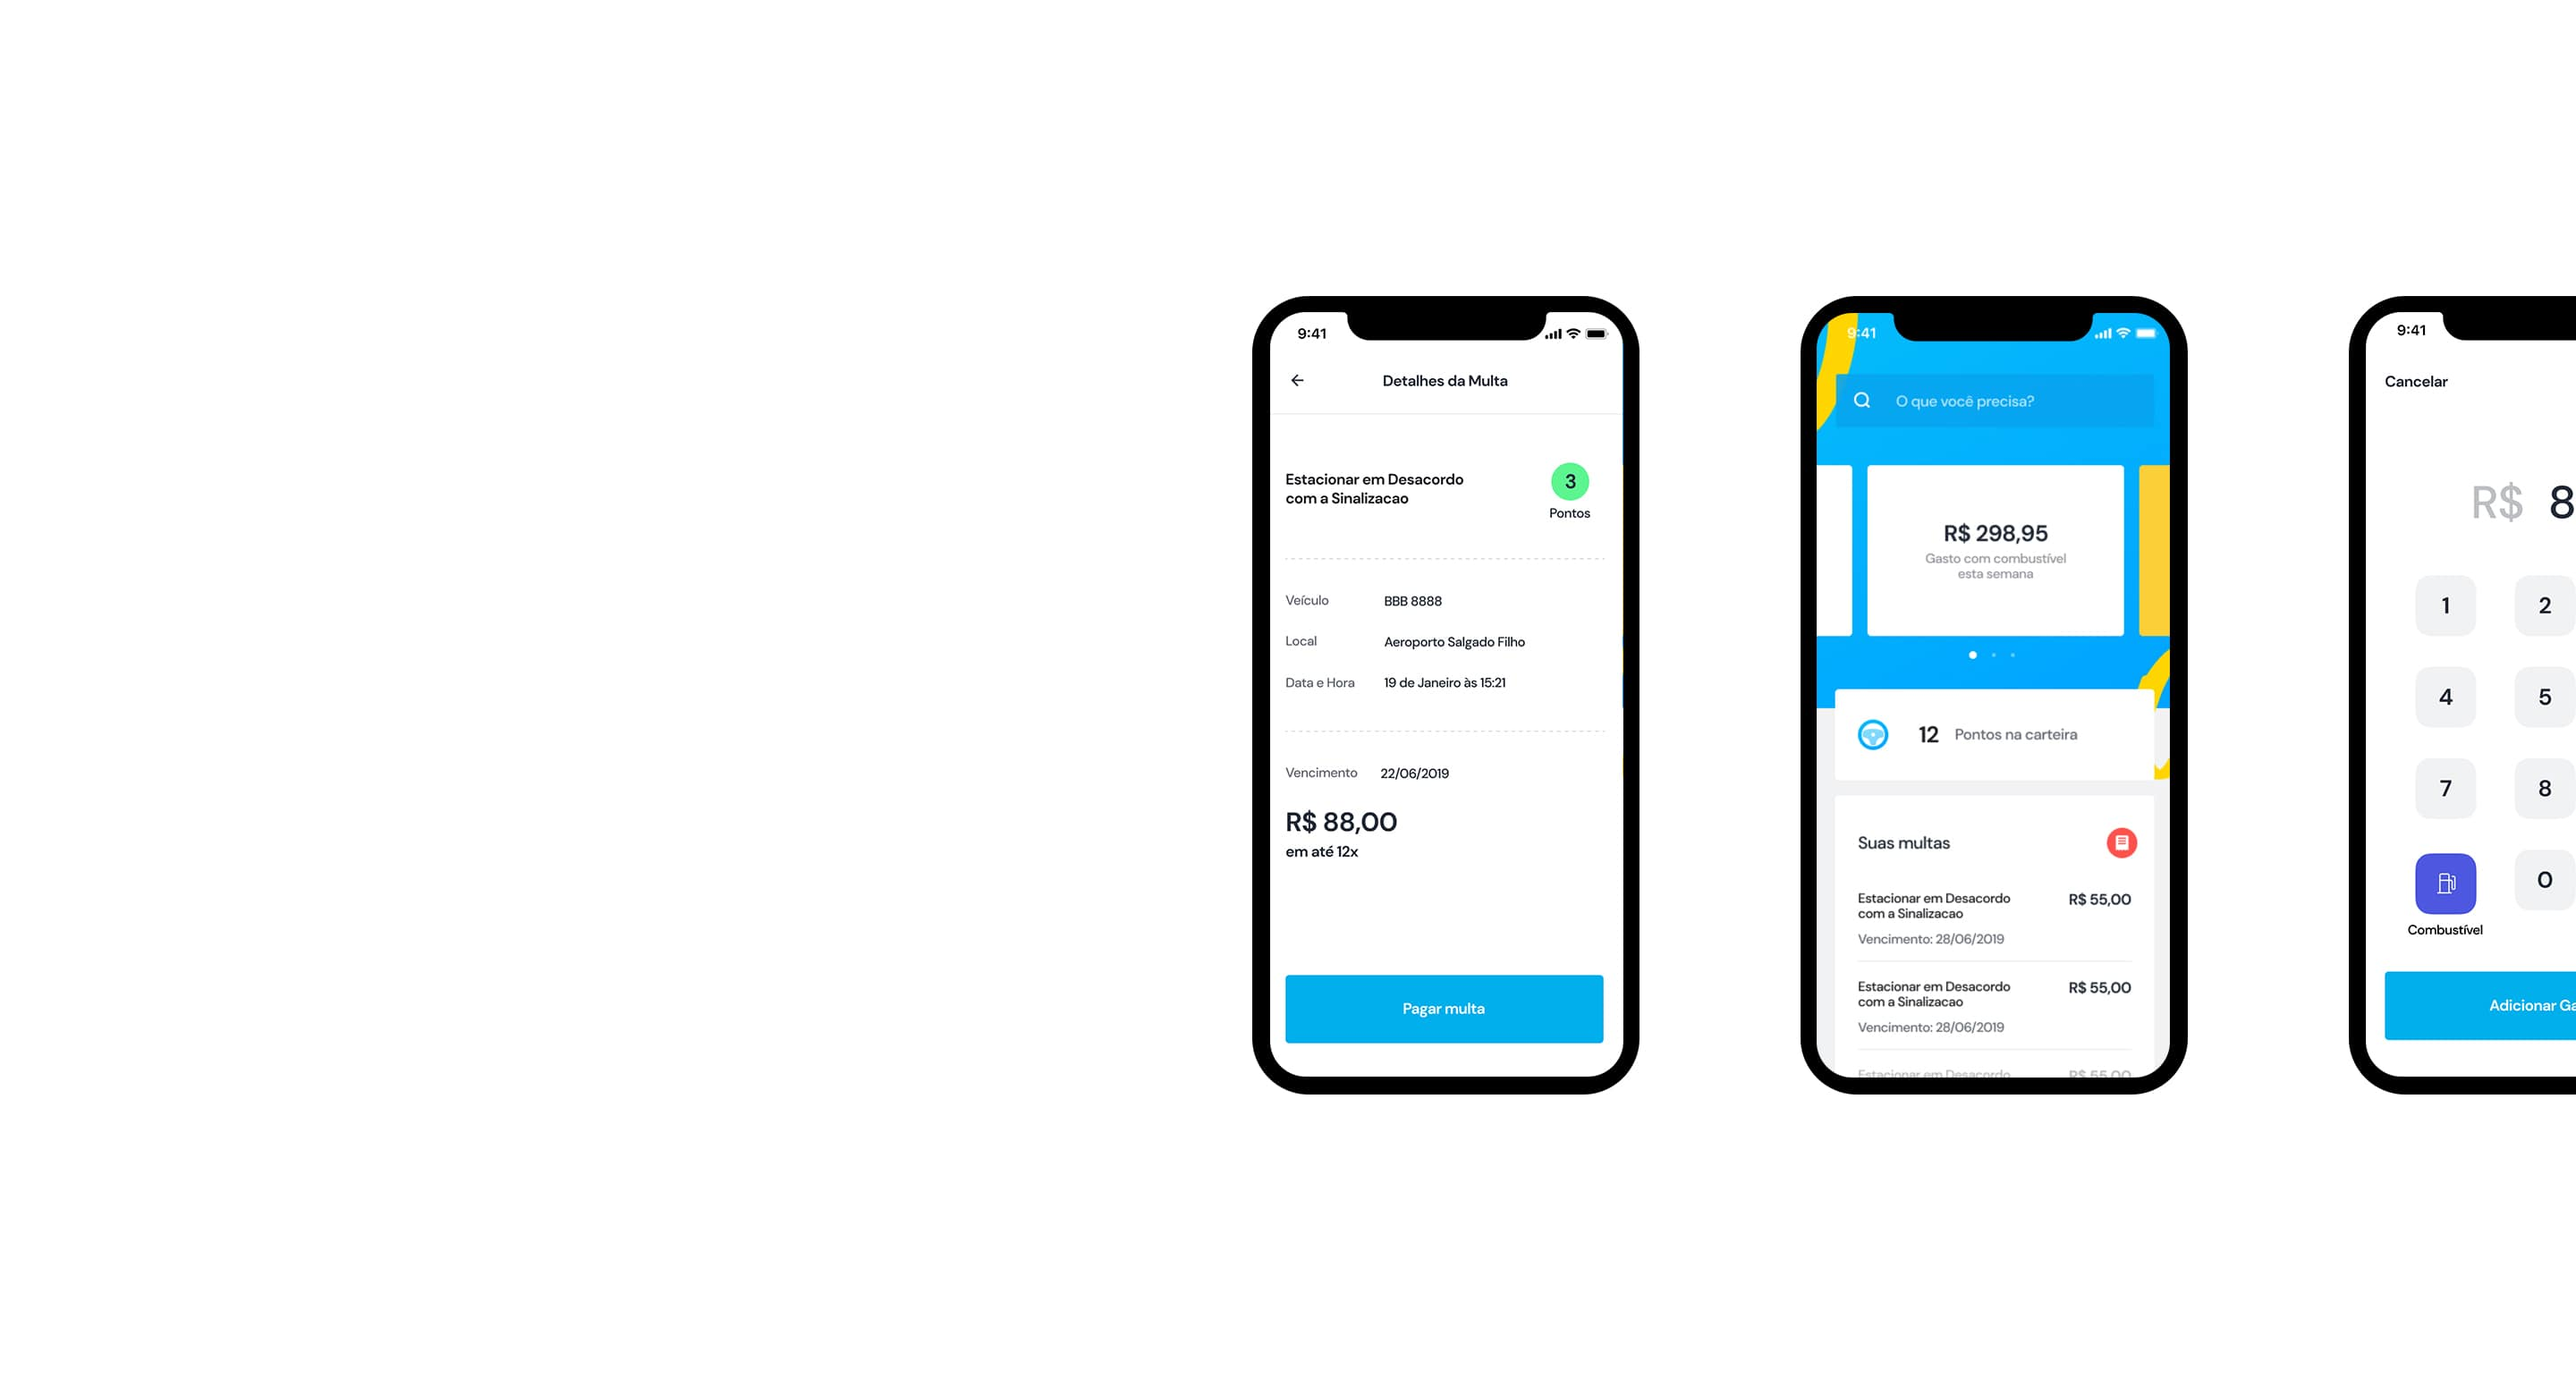
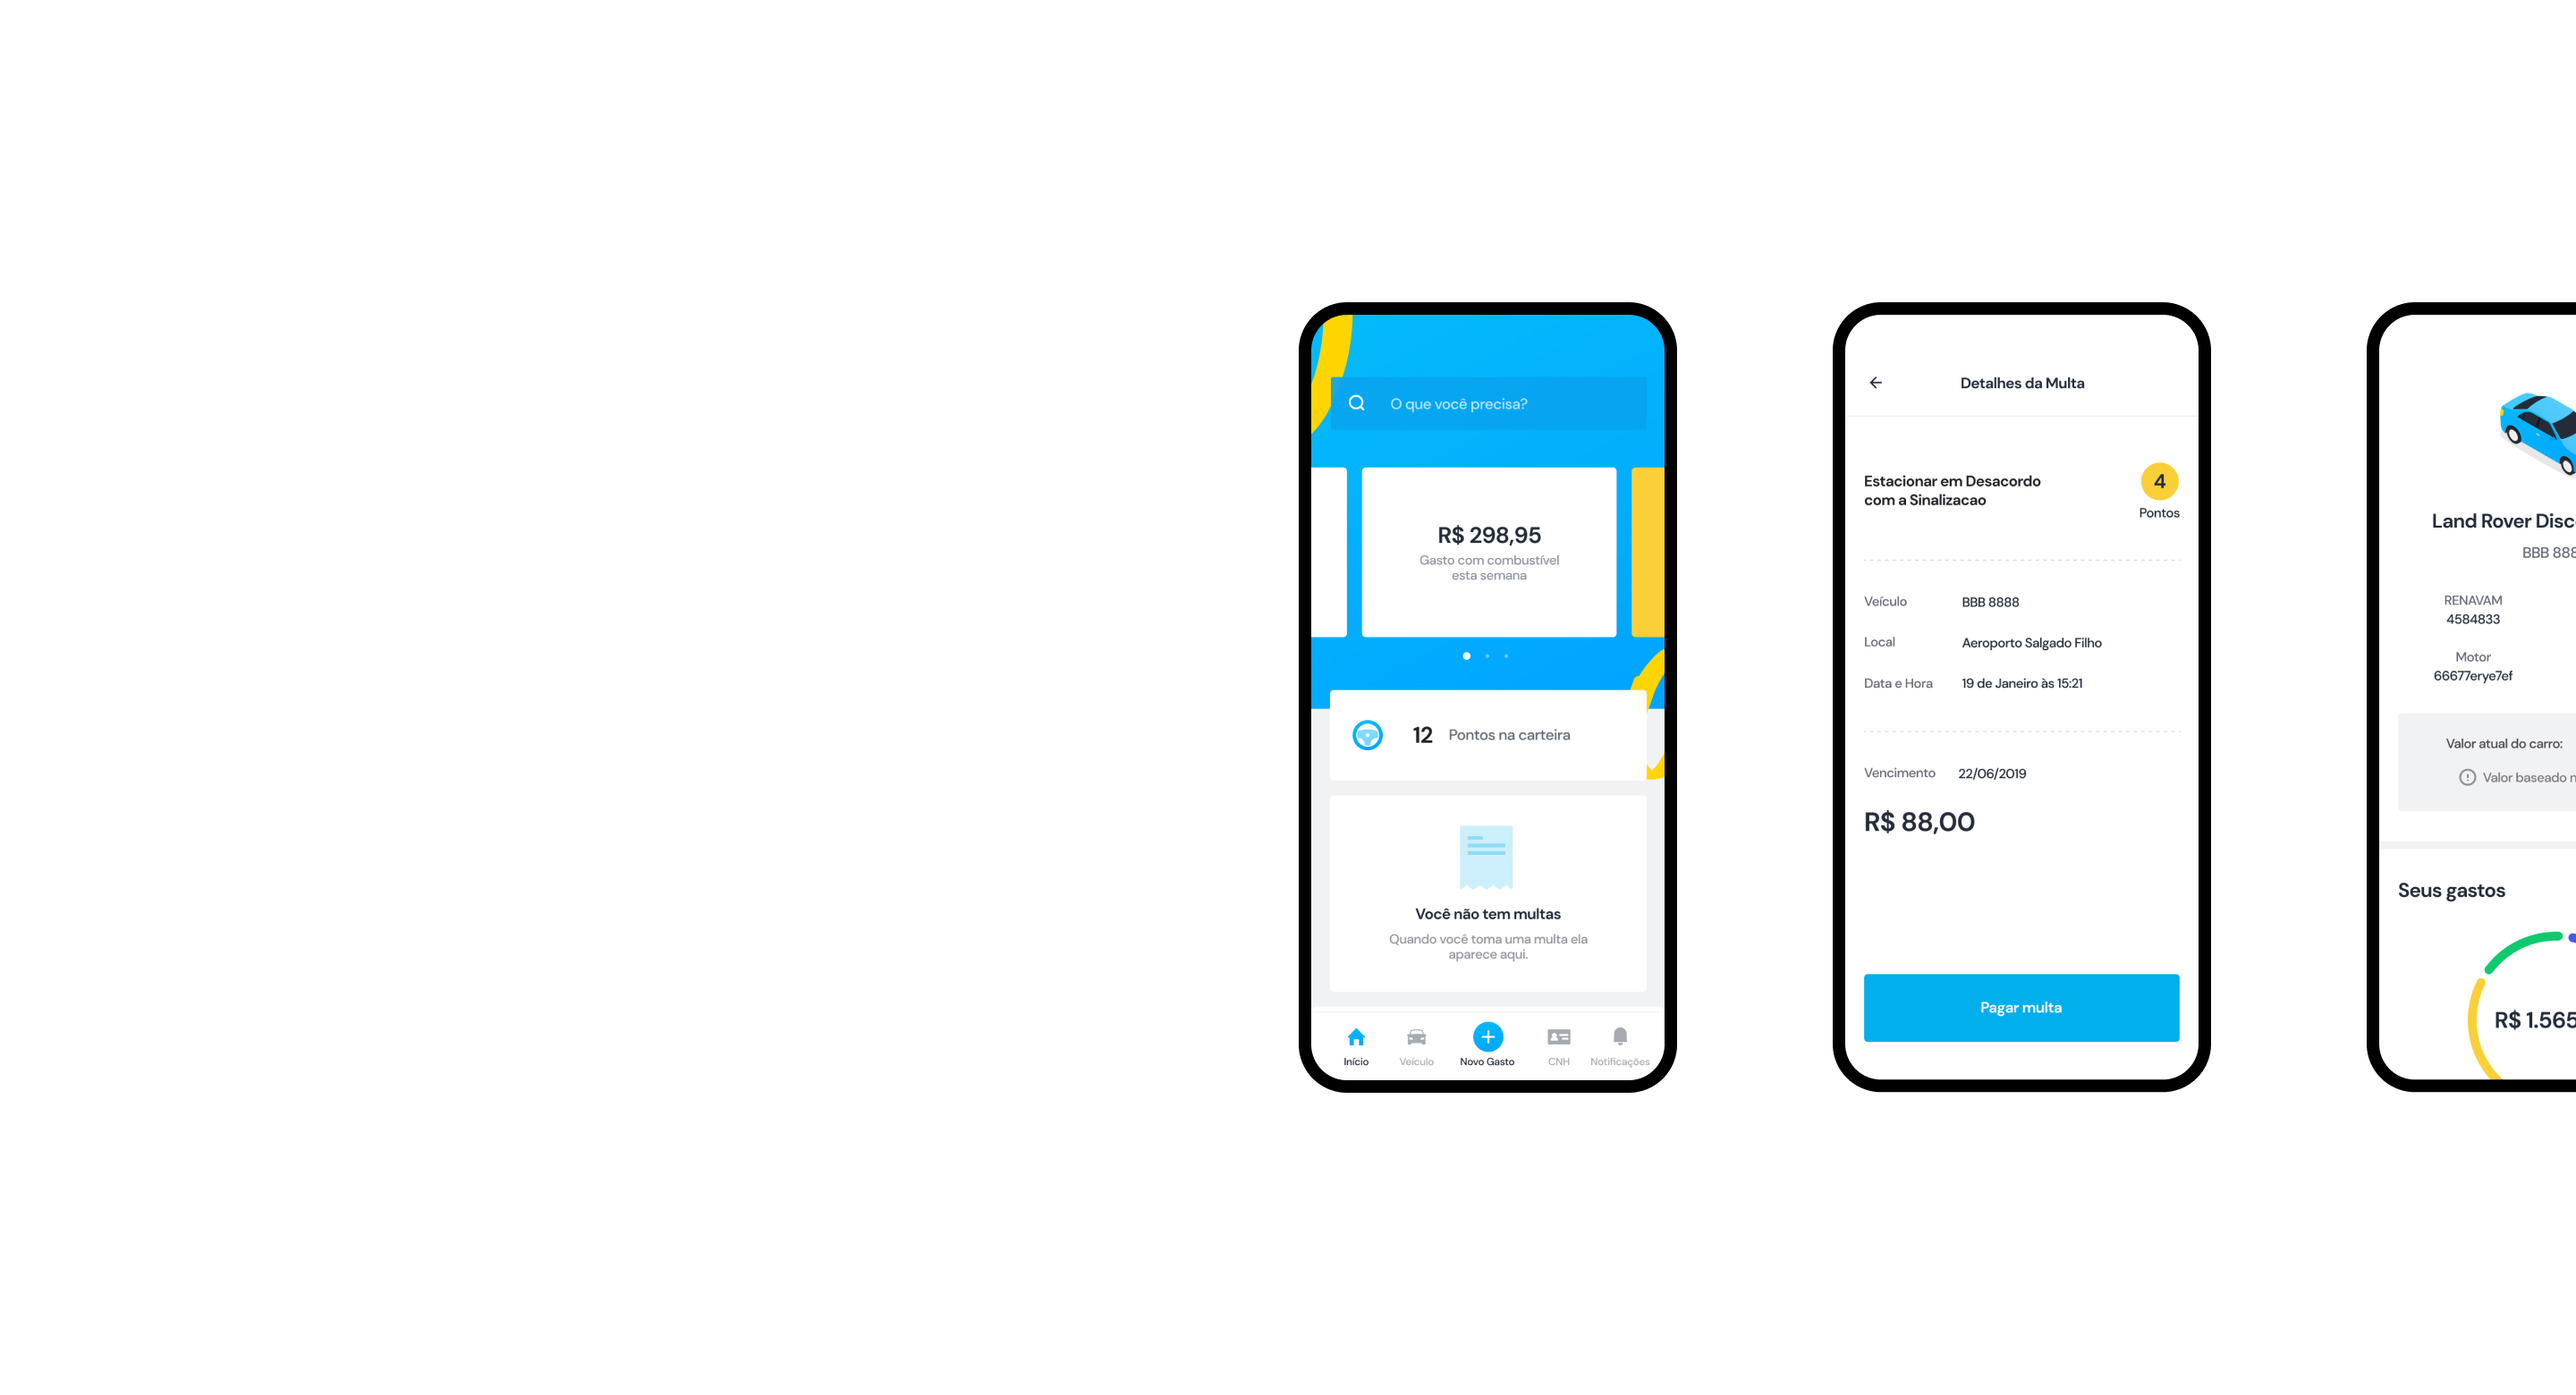
gringo added

diff --git a/gringo.html b/gringo.html
@@ -27,20 +27,16 @@
     <div class="project-content" data-aos="fade"><p>Gringo é uma startup brasileira que tem o propósito de ajudar os motoristas brasileiros a melhor gerenciarem seus carros, com uso da tecnologia e de dados o Gringo transforma tarefas burocráticas como pagamento de multas, IPVA ou checagem de pontos na carteira de uma maneira mais simplificada.</p>
          <p>O objetivo do projeto era desenvolver um aplicativo que unificasse todas as tarefas relacionadas a gestão de veículos e CNH.
     </p></div>
-    <div><img class="project-image" data-aos="fade-up" src="images/PASPOA-Home.png"></div>
+    <div><img class="project-image-margin" data-aos="fade-up" src="images/gringo1.png"></div>
+    <div><img class="project-image" data-aos="fade-up" src="images/gringo-onboarding.png"></div>
     <div class="project-content" data-aos="fade"><p><span>Aviso de multas</span></p>
         <p>Durante o processo de descoberta, houveram diversas entrevistas para entender melhor a relação das pessoas com seu carro e como lidavam com as questões de documentação e multas. Um dos maiores pontos de dor foi o fato de que o recebimento da carta de notificação de multa é na maioria das vezes uma supresa. </p><p>No aplicativo do Gringo sua principal funcionalidade é utilizar notificações justamente para avisar ao motorista quando ele recebe uma multa, podendo assim recorrer, indicar um motorista e também realizar o pagamento da multa.
    </p></div>
-   <div><img class="project-image-margin" data-aos="fade-up" src="images/PASPOA-Imersao.jpg"></div>
-   <div><img class="project-image" data-aos="fade-up" src="images/PASPOA-Imersao2.png"></div>
+   <div><img class="project-image" data-aos="fade-up" src="images/gringo-multas.png"></div>
    <div class="project-content" data-aos="fade"><p><span>Controle de gastos</span></p>
     <p>Uma das funcionalidades agregadas no Gringo, é o controle de gastos, com isso os motoristas podem administrar melhor suas despesas com o carro. A funcionalidade permite aos motoristas registrarem gastos como gasolina, documentação e manutenção.
     </p></div>
-    <div><img class="project-image" data-aos="fade-up" src="images/PASPOA-Admission.png"></div>
-    <div class="project-content" data-aos="fade"><p><span>Centralizar informações</span></p>
-        <p>Dentro da Pan American School muitas ferramentas são utilizadas entre, professores, alunos, pais e colabradores, encontramos uma maneira de centralizar não somente estas ferramentas em um ambiente só mas também materias e link úteis como cardápio do dia, catalogo da biblioteca e etc.</p></div>
-
-    <div><img class="project-image" data-aos="fade-up" src="images/PASPOA-FAQ.png"></div>
+    <div><img class="project-image" data-aos="fade-up" src="images/gringo-gastos.png"></div>
 
     <div class="team">
         <div class="label"><p>Time</p></div>

diff --git a/index.html b/index.html
@@ -23,9 +23,9 @@
 
          <div class="links fade-in two">
             <ul class="social">
-                <li><a href="">Dribbble</a></li>
-                <li><a href="">LinkedIn</a></li>
-                <li><a href="">E-mail</a></li>
+                <li><a href="https://dribbble.com/thalesrocha" target="_blank">Dribbble</a></li>
+                <li><a href="https://www.linkedin.com/in/thalesrcha/" target="_blank">LinkedIn</a></li>
+                <li><a href="mailto:thalesrochars@gmail.com" target="_blank">E-mail</a></li>
             </ul>
         </div>
      </div> 

diff --git a/styles/main.css b/styles/main.css
@@ -266,7 +266,9 @@ ul {
 }
 
 .project-content {
-    padding: 20% 30%;
+    padding: 20% 0%;
+    max-width: 516px;
+    margin: auto;
 }
 
 .project-content p {
